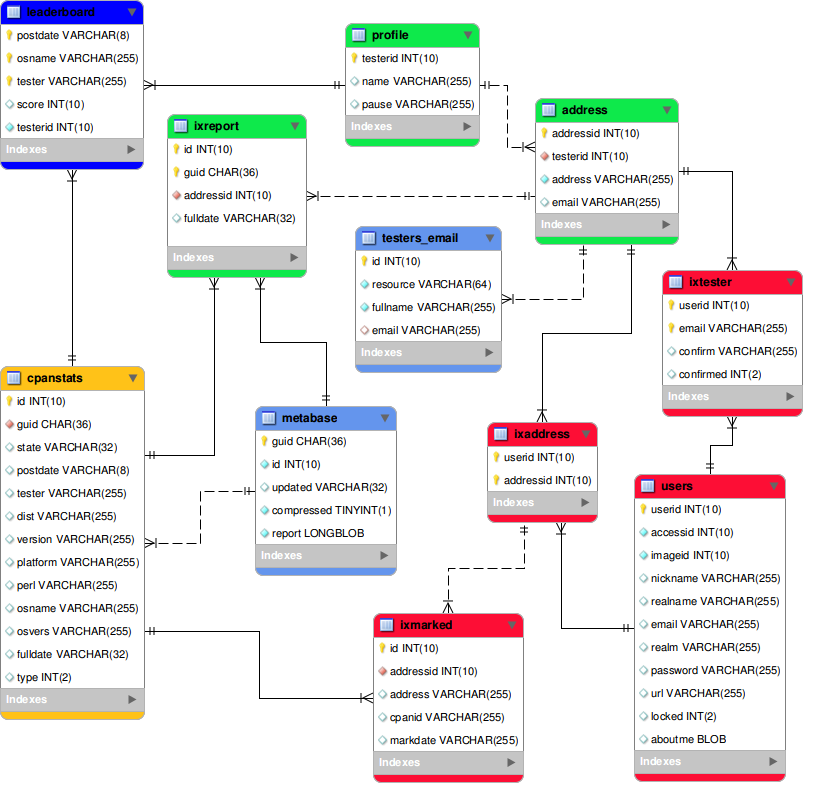
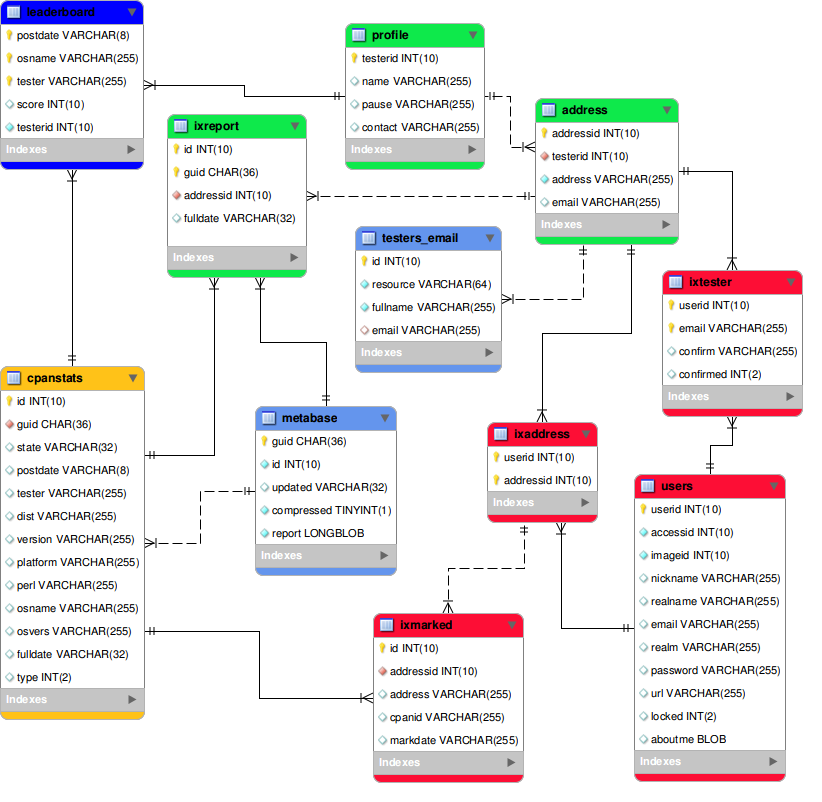
added contact email for testers

Changed region(s): [[0.3954, 0.0935, 0.6083, 0.2182], [0.5779, 0.0312, 0.6083, 0.0623], [0.3954, 0.0935, 0.4258, 0.1247]]

diff --git a/vhost/cgi-bin/templates/users/user-edit.html b/vhost/cgi-bin/templates/users/user-edit.html
@@ -37,22 +37,30 @@ the page, will be visible on the wiki.</strong></p>
 <form method="post" action="[% cgipath %]/pages.cgi">
 <input type="hidden" name="act" value="[% editlink %]" />
 <input type="hidden" name="userid" value="[% user.userid %]" />
+<input type="hidden" name="testerid" value="[% data.testerid || 0 %]" />
 <div class="box">
 <table width="100%">
 <tr><th>Display Name *</th>
     <th class="alert">[% data.realname_err %]</th>
     <td colspan="3"><input type="text" name="realname" value="[% data.realname %]" size="40" /></td>
 </tr>
-<tr><th width="150">Primary Email *</th>
+<tr><th width="150">Site Email *</th>
     <th width="10" class="alert">[% data.email_err %]</th>
     <td><input type="text" name="email" value="[% data.email %]" size="40" />
-        <p>Your primary email address will be used as your login, and will be used to send you a site password.</p>
+        <p>Your site email address will be used as your login, and will be used to send you communications, such as a new site password, should you forget your current one.</p>
     </td>
 </tr>
 <tr><th width="150">PAUSE ID</th>
     <th class="alert">[% data.nickname_err %]</th>
     <td colspan="3"><input type="text" name="nickname" value="[% data.nickname %]" size="40" />
       <p>Your PAUSE ID is used to help verify further addresses to you.</p>
+    </td>
+</tr>
+<tr><th width="150">Contact Email</th>
+    <th width="10" class="alert">[% data.email_err %]</th>
+    <td><input type="text" name="contact" value="[% data.contact %]" size="40" />
+        <p>Your contact email address will be used to promote how authors can contact you, such as 
+        via the Find a Tester tool.</p>
     </td>
 </tr>
 <tr><td colspan="2"></td><td><input type="submit" name="submit" value="UPDATE" /></td></tr>
